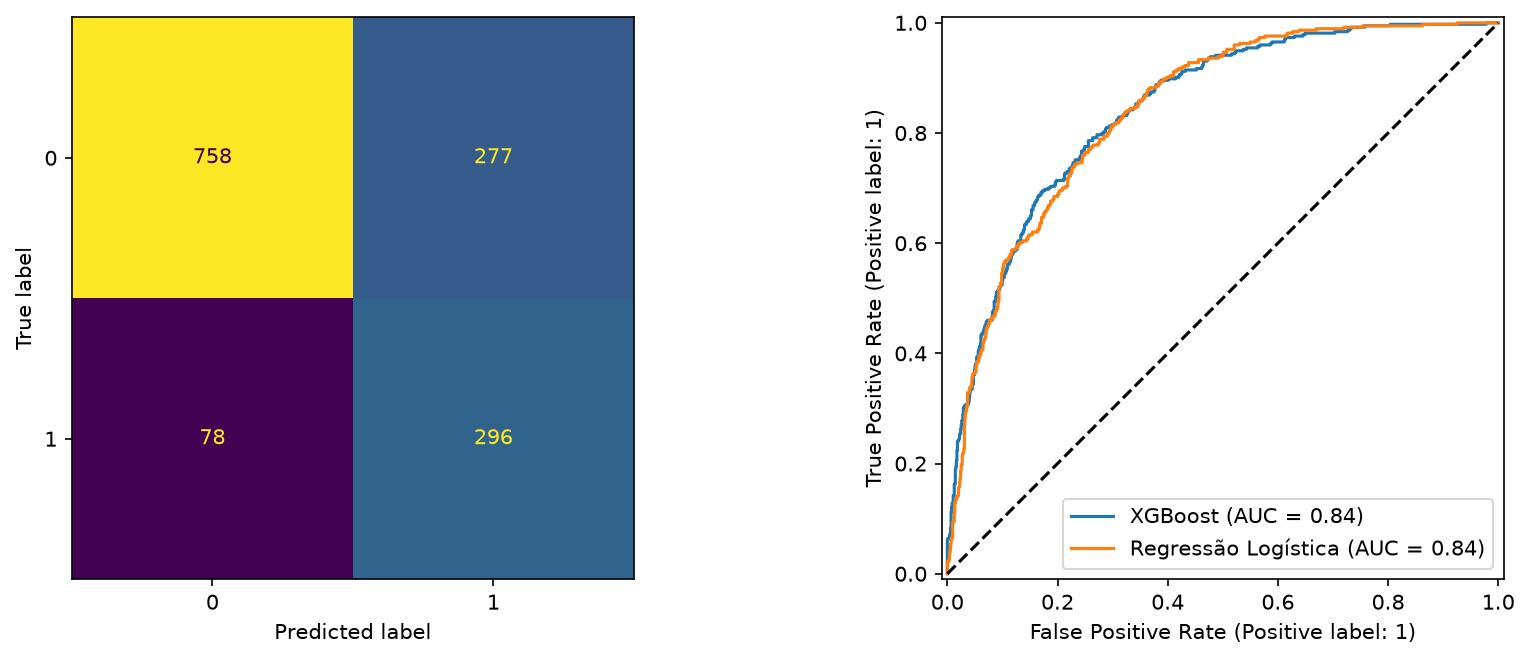
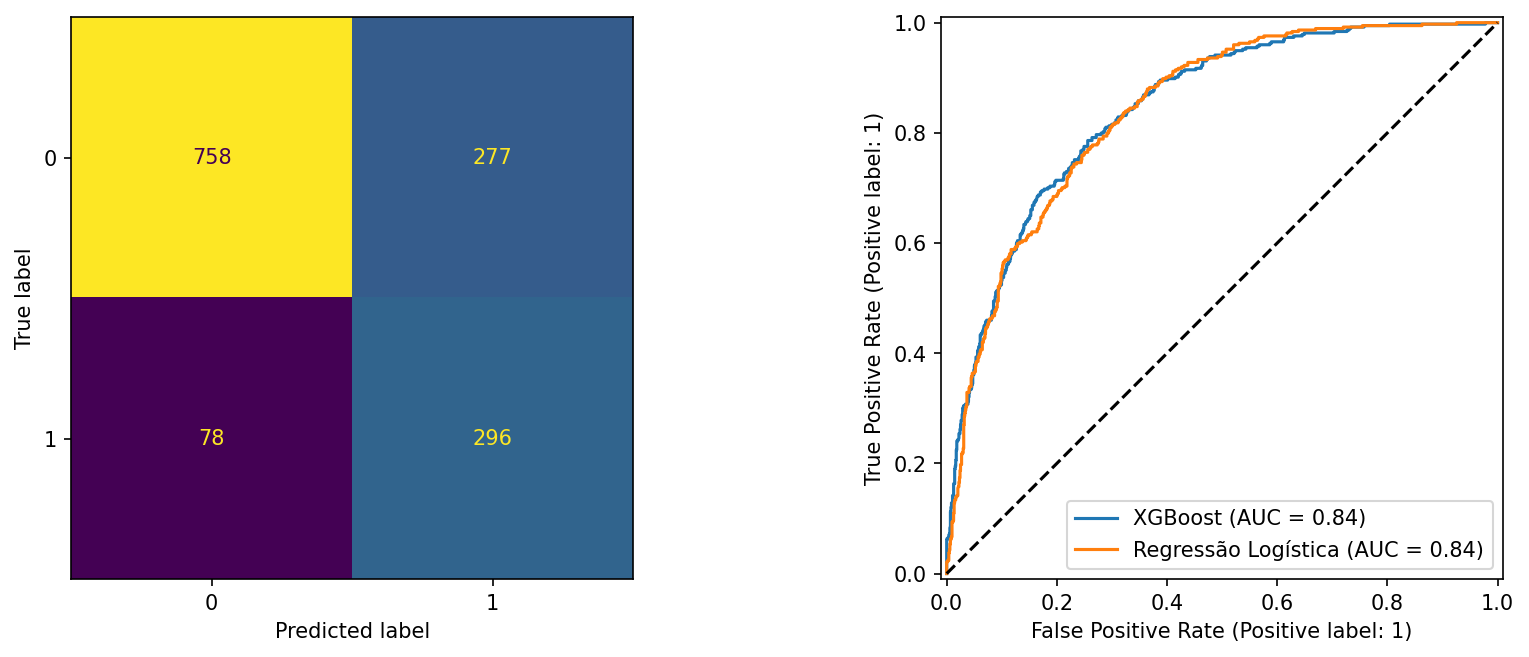
Atualizacao de card do Telco

diff --git a/src/data/projects.ts b/src/data/projects.ts
@@ -132,9 +132,9 @@ export const projects: Project[] = [
   },
   {
     slug: "telecom-churn-ltv",
-    title: "Telco Churn & Pricing: previsão de cancelamento com Machine Learning",
+    title: "Telco Churn & Pricing: quem vale a pena contatar para reter",
     description:
-      "Dois problemas de negócio em uma operadora de telecom (7.043 clientes): prever o churn com XGBoost e validar a consistência da precificação com Regressão Linear, gerando insights de retenção.",
+      "Previsão de cancelamento em uma operadora (7.043 clientes) transformada em decisão: probabilidades calibradas, regra de ganho esperado para escolher quem contatar e fila de retenção com os motivos de cada cliente.",
     category: ["Machine Learning", "Data Analytics", "Python"],
     technologies: [
       "Python",
@@ -142,6 +142,7 @@ export const projects: Project[] = [
       "scikit-learn",
       "XGBoost",
       "Regressão Linear",
+      "SHAP",
       "pytest",
       "GitHub Actions",
       "Ruff",
@@ -149,49 +150,68 @@ export const projects: Project[] = [
     featured: false,
     github: "https://github.com/gustavfreitas/telecom-churn-ltv",
     problem:
-      "A operadora perde clientes sem saber onde atuar primeiro, e não há como confirmar se a cobrança mensal segue a tabela de preços dos serviços contratados.",
+      "Saber a probabilidade de churn não diz quem vale a pena contatar: cada ação de retenção custa dinheiro, e o XGBoost com scale_pos_weight superestima as probabilidades, o que distorce qualquer conta de retorno.",
     solution:
-      "Pipelines do scikit-learn com XGBoost (churn, desbalanceamento tratado com scale_pos_weight) e Regressão Linear (MonthlyCharges), com análise exploratória e interpretabilidade para transformar o modelo em ações de negócio.",
+      "Pipelines do scikit-learn com XGBoost e baseline logístico, calibração das probabilidades (Platt) ajustada só com o treino e uma regra de ganho esperado (probabilidade × taxa de sucesso × receita de 12 meses − custo da ação). O resultado é uma fila de retenção em CSV com os 3 principais motivos de cada cliente (SHAP) e uma análise de sensibilidade às premissas. Uma Regressão Linear de MonthlyCharges complementa com uma lista de cobranças atípicas.",
     result:
-      "XGBoost com AUC-ROC de 0,845 no teste e recall de 0,79 para churn; regressão com R² de 0,999, que redescobre a tabela de preços e permite auditar cobranças atípicas pelos resíduos.",
+      "Com premissas ilustrativas, a decisão por ganho esperado rende cerca de 15% a mais que o corte de 0,5 e cerca de 10% a mais que contatar todos os clientes (US$ 54,7 mil contra 47,7 mil e 49,5 mil por 1.000 clientes). A calibração leva a probabilidade média de 40,1% para 26,7%, perto do churn real de 26,5%.",
     context:
-      "Dataset público Telco Customer Churn (IBM Sample Data Sets), com 7.043 clientes, 21 colunas e 26,5% de cancelamentos. O objetivo vai além de rodar algoritmos: extrair insights acionáveis para reduzir a perda de clientes e identificar inconsistências de faturamento.",
+      "Dataset público Telco Customer Churn (IBM Sample Data Sets), com 7.043 clientes, 21 colunas e 26,5% de cancelamentos. As premissas de custo e de sucesso da ação são ilustrativas, não vêm de uma operação real.",
     objective:
-      "Resolver dois problemas com algoritmos diferentes: classificação (churn) para retenção e regressão (MonthlyCharges) para consistência de precificação.",
+      "Ir além da métrica do modelo: definir quem receber a ação de retenção pelo retorno esperado e mostrar o quanto essa conclusão depende das premissas.",
     architecture:
-      "Código modular em src/ (dados, features, regressão, classificação, interpretabilidade e avaliação), scripts de treino, notebook de EDA, testes automatizados e integração contínua no GitHub Actions.",
+      "Código modular em src/ (dados, features, regressão, classificação, interpretabilidade, avaliação e negócio), scripts de treino, notebook de EDA, testes automatizados e integração contínua no GitHub Actions. O calibrador é ajustado em previsões out-of-fold do treino e o teste é usado uma única vez, para medir.",
     pipeline: [
       { label: "Dados brutos (CSV)" },
       { label: "Limpeza e EDA" },
       { label: "Pré-processamento (One-Hot, escala)" },
-      { label: "Regressão Linear / XGBoost" },
-      { label: "Validação cruzada 5-fold" },
-      { label: "Interpretabilidade e lista de risco" },
+      { label: "XGBoost + baseline logístico" },
+      { label: "Calibração (out-of-fold)" },
+      { label: "Ganho esperado e fila de retenção" },
     ],
     process: [
       "Análise exploratória do churn por contrato, tempo de casa, internet e pagamento",
       "Pré-processamento dentro de Pipeline do scikit-learn, sem vazamento entre treino e teste",
       "Baseline com Regressão Logística para comparar com o XGBoost",
-      "Importâncias por gain e por permutation, lado a lado",
-      "18 testes automatizados e lint com Ruff rodando em CI (Python 3.10 e 3.12)",
+      "Calibração Platt com previsões out-of-fold do treino e comparação de 6 estratégias de retenção no teste",
+      "Análise de sensibilidade ao custo da ação e à taxa de sucesso",
+      "29 testes automatizados (incluindo contas de ganho conferidas à mão) e lint com Ruff rodando em CI (Python 3.10 e 3.12)",
     ],
     insights: [
       "O tipo de contrato é a principal alavanca de retenção: churn de 42,7% no plano mensal, 11,3% no anual e 2,8% no bienal",
       "O risco se concentra no primeiro ano: 47,4% de churn entre 0 e 12 meses de casa contra 9,5% após 49 meses",
       "Fibra ótica (41,9%) e cheque eletrônico (45,3%) merecem investigação de qualidade, suporte e atrito de pagamento",
-      "Combinar probabilidade de churn com a mensalidade ordena a fila de retenção por receita em risco",
+      "A probabilidade bruta do XGBoost é inflada (média de 40,1% contra 26,5% de churn real); sem calibrar, a conta de retorno da campanha fica distorcida",
+      "Com ação barata (US$ 5), contatar todos empata com o modelo; quanto mais cara a ação, maior a vantagem de escolher quem contatar",
     ],
     resultsDetail: [
-      "Classificação: XGBoost com AUC-ROC de 0,845 no teste (0,846 ± 0,011 em CV), precision de 0,52, recall de 0,79 e F1 de 0,63",
-      "Leitura honesta: o XGBoost empata com a Regressão Logística (0,842), pois o sinal está em poucas variáveis quase lineares",
-      "Regressão: MAE de 0,79 e R² de 0,999 contra baseline da média com R² de 0,000",
+      "Classificação: XGBoost com AUC-ROC de 0,845 no teste (0,846 ± 0,011 em CV), recall de 0,79 e precision de 0,52 no corte de 0,5",
+      "Benefício por 1.000 clientes: US$ 54,7 mil (XGBoost calibrado), 47,7 mil (corte de 0,5), 49,5 mil (contatar todos) e 64,2 mil no limite teórico",
+      "Com ação de US$ 200, a regra antiga dá prejuízo (−US$ 25,5 mil) e o modelo calibrado ainda fica positivo (US$ 2,6 mil)",
+      "Leitura honesta: a Regressão Logística calibrada rende praticamente o mesmo (US$ 54,6 mil); o XGBoost empata com ela neste dataset",
+      "Regressão de MonthlyCharges com R² de 0,999 redescobre a tabela de preços; o maior desvio é de US$ 4,84, então a lista de auditoria é fraca como detector de erro",
     ],
     limitations: [
       "Associação não é causalidade: confirmar o efeito de um desconto em contrato exigiria teste A/B",
       "O R² próximo de 1 reflete a precificação aditiva do dataset, não um problema difícil resolvido por ML",
-      "Sem dados comportamentais, o teto de AUC do dataset fica perto de 0,85, e o limiar de decisão fixo em 0,5 não foi otimizado por custo",
+      "Sem dados comportamentais, o teto de AUC do dataset fica perto de 0,85",
+      "Custo da ação, taxa de sucesso (30%) e horizonte (12 meses) são premissas ilustrativas, e a receita em risco ignora margem e desconto",
     ],
     images: [
+      {
+        src: "/projects/telecom-churn-ltv/sensibilidade_retencao.png",
+        alt: "Benefício da campanha de retenção variando custo da ação e taxa de sucesso",
+        width: 1784,
+        height: 665,
+        caption: "Sensibilidade do benefício às premissas de negócio",
+      },
+      {
+        src: "/projects/telecom-churn-ltv/calibracao.png",
+        alt: "Curva de calibração das probabilidades do XGBoost antes e depois da calibração",
+        width: 809,
+        height: 731,
+        caption: "Calibração das probabilidades",
+      },
       {
         src: "/projects/telecom-churn-ltv/classificacao_confusao_roc.png",
         alt: "Matriz de confusão e curva ROC do modelo de churn",
